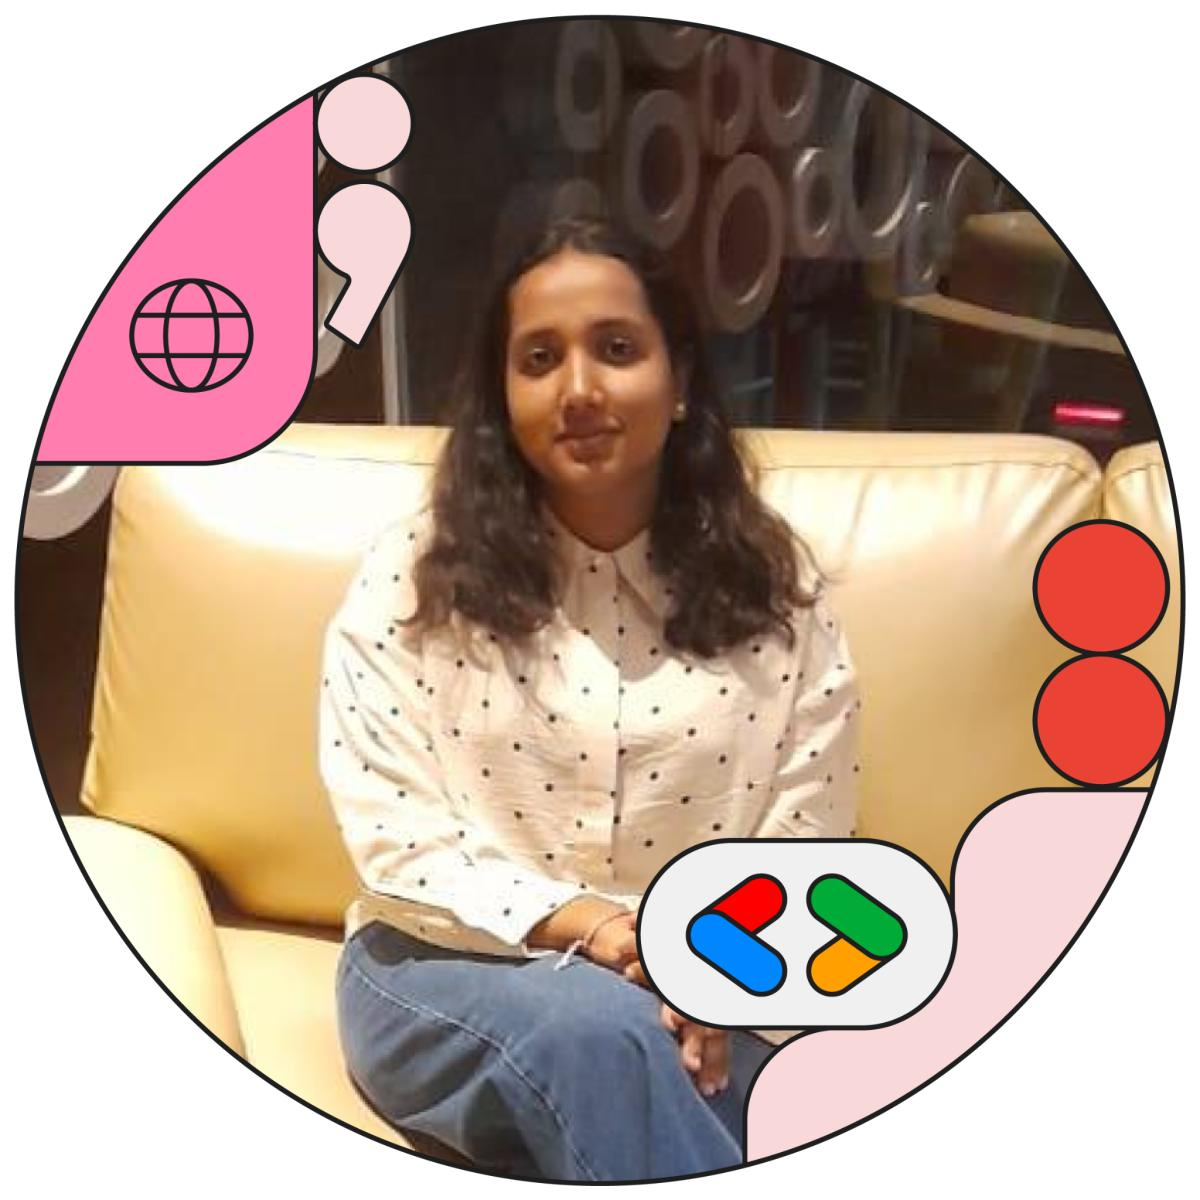
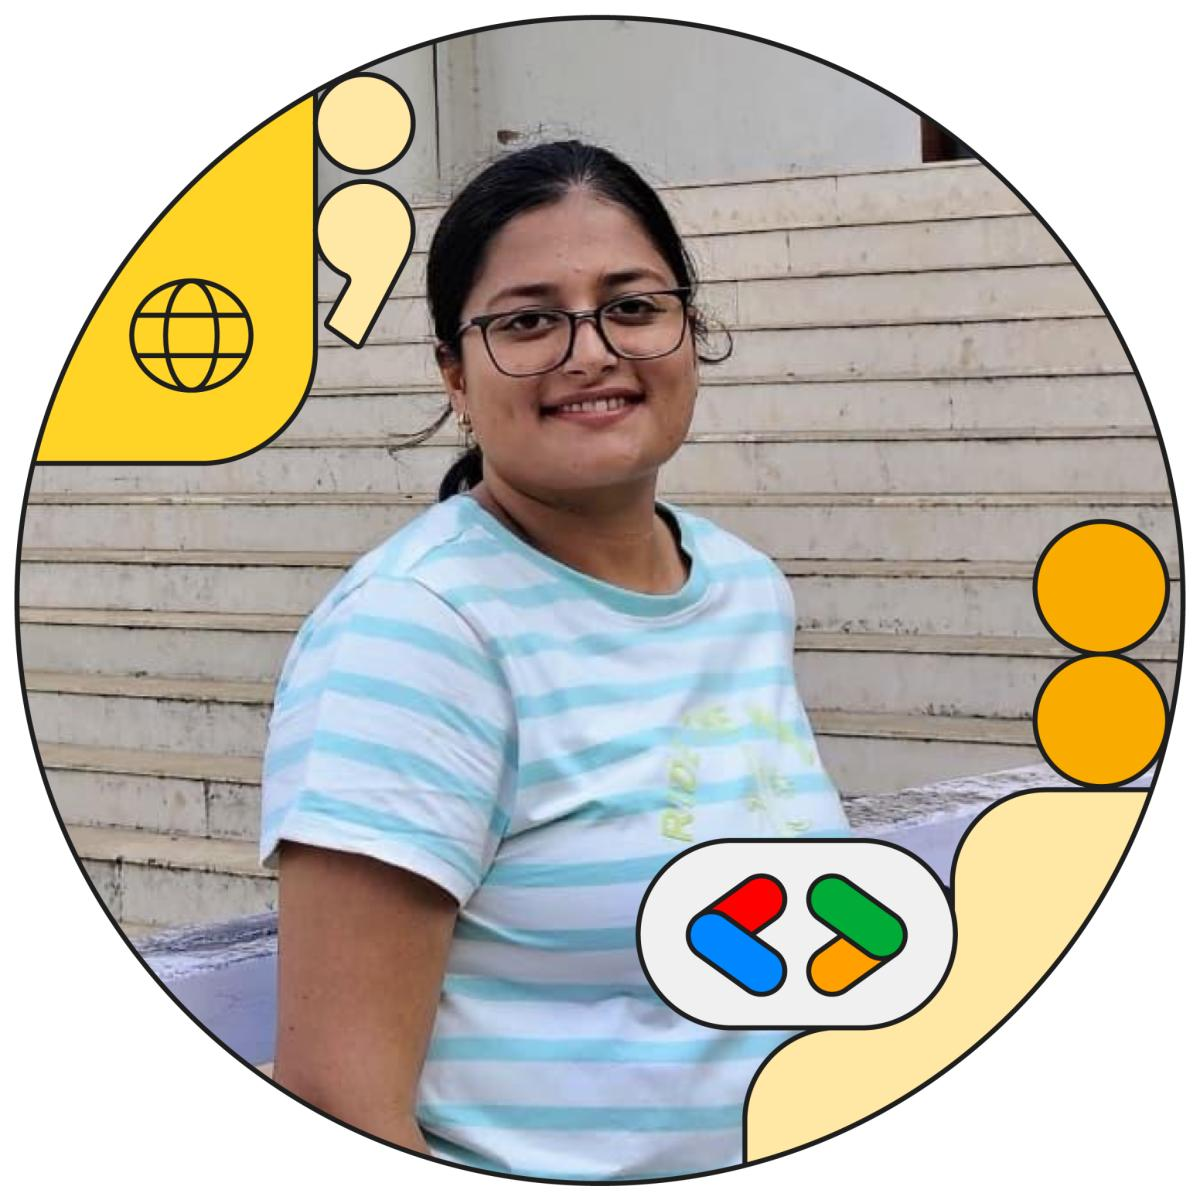
1st

diff --git a/src/App.jsx b/src/App.jsx
@@ -1,22 +1,29 @@
-import { useEffect } from 'react';
+import { useEffect, lazy, Suspense } from 'react';
 import { Routes, Route, useLocation } from 'react-router-dom';
 import { motion, AnimatePresence } from 'framer-motion';
 import './styles/global.css';
 
-// Components
+// Core components (loaded immediately)
 import Navigation from './components/Navigation';
 import Hero from './components/Hero';
-import About from './components/About';
-import CommunityValues from './components/CommunityValues';
-import Events from './components/Events';
-import Projects from './components/Projects';
-import TeamMembers from './components/TeamMembers'; // Changed from Technologies
-import Highlights from './components/Highlights';
-import Footer from './components/Footer';
 import ErrorFallback from './components/ErrorFallback';
 
-// Pages
-import SignIn from './pages/SignIn';
+// Lazy load heavy components (loaded when needed)
+const About = lazy(() => import('./components/About'));
+const CommunityValues = lazy(() => import('./components/CommunityValues'));
+const Events = lazy(() => import('./components/Events'));
+const Projects = lazy(() => import('./components/Projects'));
+const TeamMembers = lazy(() => import('./components/TeamMembers'));
+const Highlights = lazy(() => import('./components/Highlights'));
+const Footer = lazy(() => import('./components/Footer'));
+const SignIn = lazy(() => import('./pages/SignIn'));
+
+// Loading component
+const LoadingSpinner = () => (
+  <div className="flex items-center justify-center min-h-screen">
+    <div className="animate-spin rounded-full h-32 w-32 border-b-2 border-gdg-blue"></div>
+  </div>
+);
 
 // Home Page Component
 const HomePage = () => (
@@ -30,14 +37,16 @@ const HomePage = () => (
     <Navigation />
     <main className="pt-16">
       <Hero />
-      <About />
-      <CommunityValues />
-      <Events />
-      <Projects />
-      <TeamMembers />
-      <Highlights />
+      <Suspense fallback={<LoadingSpinner />}>
+        <About />
+        <CommunityValues />
+        <Events />
+        <Projects />
+        <TeamMembers />
+        <Highlights />
+        <Footer />
+      </Suspense>
     </main>
-    <Footer />
   </motion.div>
 );
 
@@ -45,10 +54,7 @@ function App() {
   const location = useLocation();
 
   useEffect(() => {
-    // Initialize Firebase and other services
     console.log('GDG VTU Website Loaded');
-    
-    // Scroll to top on route change
     window.scrollTo(0, 0);
   }, [location.pathname]);
 
@@ -58,8 +64,14 @@ function App() {
         <AnimatePresence mode="wait">
           <Routes location={location} key={location.pathname}>
             <Route path="/" element={<HomePage />} />
-            <Route path="/signin" element={<SignIn />} />
-            {/* Add catch-all route for 404s */}
+            <Route 
+              path="/signin" 
+              element={
+                <Suspense fallback={<LoadingSpinner />}>
+                  <SignIn />
+                </Suspense>
+              } 
+            />
             <Route path="*" element={<HomePage />} />
           </Routes>
         </AnimatePresence>

diff --git a/src/components/TeamMembers.jsx b/src/components/TeamMembers.jsx
@@ -16,10 +16,10 @@ const TeamMembers = () => {
           role: 'GDGoC Organizer',
           organization: 'VISVESVARAYA TECHNOLOGICAL UNIVERSITY',
           image: '/team/organizer.jpg',
-          profileLink: '#',
           isOrganizer: true
         }
-      ]
+      ],
+       
     },
     {
       name: 'Tech Team',
@@ -29,31 +29,31 @@ const TeamMembers = () => {
           role: 'Tech Lead',
           organization: 'VTU',
           image: '/team/tech-1.jpg',
-          profileLink: '#'
+          
         },
         {
           name: 'Yash Koparde',
           role: 'Tech Lead',
           organization: 'VTU',
           image: '/team/tech-2.jpg',
-          profileLink: 'www.github.com/yashkoaprde'
         },
+        
+      ]
+    },
     {
       name: 'PR & Outreach Team',
       members: [
         {
-          name: 'Sneha Reddy',
+          name: 'Advika Gurav',
           role: 'PR Lead',
           organization: 'VTU',
           image: '/team/pr-1.jpg',
-          profileLink: '#'
         },
         {
-          name: 'Kiran Joshi',
+          name: 'Sadik Allibai',
           role: 'Outreach Coordinator',
           organization: 'VTU',
           image: '/team/pr-2.jpg',
-          profileLink: '#'
         }
       ]
     },
@@ -61,25 +61,22 @@ const TeamMembers = () => {
       name: 'Event Coordinator Team',
       members: [
         {
-          name: 'Anita Desai',
+          name: 'Syed Maaz',
           role: 'Event Manager',
           organization: 'VTU',
           image: '/team/event-1.jpg',
-          profileLink: '#'
         },
         {
-          name: 'Vikram Singh',
+          name: 'Ananya Sudhanshu',
           role: 'Logistics Coordinator',
           organization: 'VTU',
           image: '/team/event-2.jpg',
-          profileLink: '#'
         },
         {
-          name: 'Meera Nair',
+          name: 'Deepa Kallagonal',
           role: 'Event Planning Lead',
           organization: 'VTU',
           image: '/team/event-3.jpg',
-          profileLink: '#'
         }
       ]
     },
@@ -87,18 +84,16 @@ const TeamMembers = () => {
       name: 'Content Creator Team',
       members: [
         {
-          name: 'Rohit Gupta',
+          name: 'Shravan Chougule',
           role: 'Content Lead',
           organization: 'VTU',
           image: '/team/content-1.jpg',
-          profileLink: '#'
         },
         {
-          name: 'Kavya Iyer',
+          name: 'Hashada Kadam',
           role: 'Social Media Manager',
           organization: 'VTU',
           image: '/team/content-2.jpg',
-          profileLink: '#'
         }
       ]
     }

diff --git a/src/main.jsx b/src/main.jsx
@@ -1,22 +1,26 @@
-import React, { Suspense } from "react";
+import React from "react";
 import ReactDOM from "react-dom/client";
 import { BrowserRouter } from "react-router-dom";
 import "./styles/global.css";
 import App from "./App";
-import LoadingSpinner from "./components/LoadingSpinner";
 
-ReactDOM.createRoot(document.getElementById("root")).render(
-  <React.StrictMode>
-    <BrowserRouter>
-      <Suspense 
-        fallback={
-          <div className="min-h-screen flex items-center justify-center">
-            <LoadingSpinner size="lg" text="Loading GDG Chapter..." />
-          </div>
-        }
-      >
+// Add error boundary for better debugging
+const root = ReactDOM.createRoot(document.getElementById("root"));
+
+try {
+  root.render(
+    <React.StrictMode>
+      <BrowserRouter>
         <App />
-      </Suspense>
-    </BrowserRouter>
-  </React.StrictMode>
-);
+      </BrowserRouter>
+    </React.StrictMode>
+  );
+} catch (error) {
+  console.error('App failed to render:', error);
+  root.render(
+    <div style={{ padding: '20px', color: 'red' }}>
+      <h1>App Failed to Load</h1>
+      <p>Check console for details: {error.message}</p>
+    </div>
+  );
+}

diff --git a/vite.config.js b/vite.config.js
@@ -6,5 +6,21 @@ export default defineConfig({
   base: './', // ✅ Critical for relative paths
   build: {
     outDir: 'dist',
+    sourcemap: false, // Disable sourcemaps for smaller build
+    chunkSizeWarningLimit: 1000, // Increase warning limit
+    rollupOptions: {
+      output: {
+        manualChunks: {
+          // Split vendor libraries into separate chunks
+          vendor: ['react', 'react-dom'],
+          router: ['react-router-dom'],
+          motion: ['framer-motion'],
+          firebase: ['firebase/app', 'firebase/auth', 'firebase/firestore']
+        }
+      }
+    }
+  },
+  optimizeDeps: {
+    include: ['react', 'react-dom', 'react-router-dom', 'framer-motion']
   }
 })
